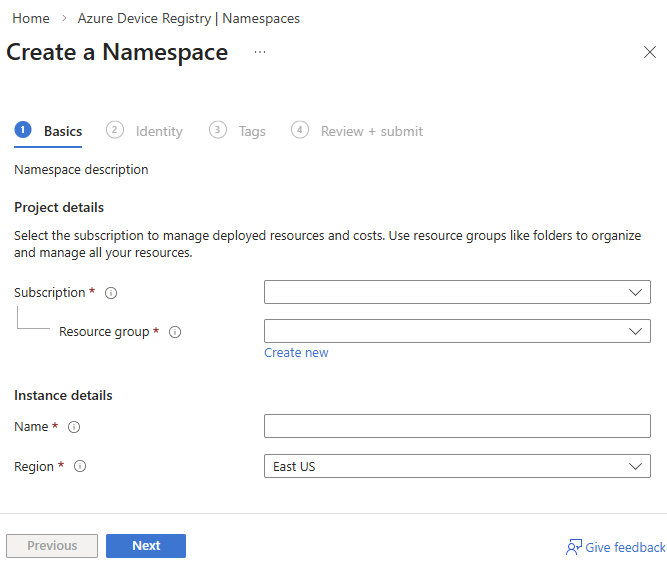
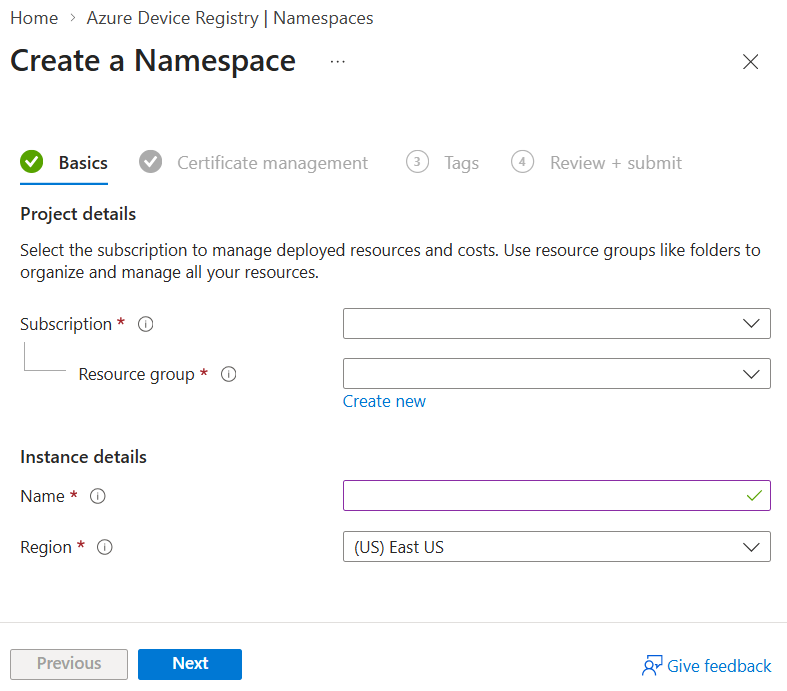
Check article

diff --git a/includes/iot-hub-device-registry-portal.md b/includes/iot-hub-device-registry-portal.md
@@ -6,7 +6,7 @@ ms.author: cwatson
 ms.service: azure-iot-hub
 ms.topic: include
 ai-usage: ai-assisted
-ms.date: 03/10/2026
+ms.date: 04/10/2026
 ---
 
 ## Additional prerequisites for Azure portal
@@ -18,11 +18,11 @@ Before you begin, make sure you have:
 
 ## Overview
 
-Use the Azure portal to create an IoT hub with Azure Device Registry and certificate management integration.
+Use the Azure portal to create an IoT hub with ADR and certificate management integration.
 
 The setup process in this article includes the following steps:
 
-1. Set up your ADR namespace with system-assigned managed identity and assign necessary roles.
+1. Set up your ADR namespace with certificate management enabled and assign necessary roles.
 1. Create a custom credential policy for your namespace.
 1. Create an IoT hub linked to your ADR namespace with a user-assigned managed identity.
 1. Create a DPS instance and link it to your ADR namespace.
@@ -31,20 +31,20 @@ The setup process in this article includes the following steps:
 1. Create an enrollment group and assign a policy to enable device onboarding.
 
 > [!IMPORTANT]
-> During the preview period, IoT Hub with ADR integration and certificate management features enabled on top of IoT Hub are available **free of charge**. Device Provisioning Service (DPS) is billed separately and isn't included in the preview offer. For details on DPS pricing, see [Azure IoT Hub pricing](https://azure.microsoft.com/pricing/details/iot-hub/).
+> During the preview period, IoT Hub with ADR integration and certificate management features enabled on top of IoT Hub are available **free of charge**. DPS is billed separately and isn't included in the preview offer. For details on DPS pricing, see [Azure IoT Hub pricing](https://azure.microsoft.com/pricing/details/iot-hub/).
 
 ## Set up your ADR namespace
 
-In this section, you set up your Azure Device Registry (ADR) namespace, enable managed identities, assign the necessary contributor role, and create a custom credential policy. These steps prepare your environment to securely manage device identities and certificates, and ensure your IoT hub can use ADR for device onboarding and certificate management.
+In this section, you set up your ADR namespace, enable certificate management, assign the necessary contributor role, and create a custom certificate policy. These steps prepare your environment to securely manage device identities and certificates, and ensure your IoT hub can use ADR for device onboarding and certificate management.
 
-### Create an ADR namespace with credential management enabled
+### Create an ADR namespace with certificate management enabled
 
-When you create a namespace with credential management enabled, the process creates a credential known as root CA and a default policy known as intermediate CA. [Certificate management](../articles/iot-hub/iot-hub-certificate-management-overview.md) uses these credentials and policies to onboard devices to the namespace.
+When you create a namespace with certificate management enabled, the process creates a credential known as root CA and a default policy known as intermediate CA. [Certificate management](../articles/iot-hub/iot-hub-certificate-management-overview.md) uses these credentials and policies to onboard devices to the namespace.
 
 1. Sign in to the [Azure portal](https://portal.azure.com).
 1. Search for and select **Azure Device Registry**.
 1. Select **Namespaces** > **Create**.
-1. On the Basics tab, fill in the fields as follows:
+1. On the **Basics** tab, fill in the fields as follows:
 
     | Property | Value |
     | ----- | ----- |
@@ -56,12 +56,11 @@ When you create a namespace with credential management enabled, the process crea
     :::image type="content" source="../articles/iot-hub/media/device-registry/iot-hub-namespace-1.png" alt-text="Screen capture that shows how to fill the basics tab for an ADR namespace in the Azure portal.":::
 
 1. Select **Next**.
-1. In the **Credential management** tab, enable **System-assigned managed identity** and **Credential management** for your namespace.
+1. In the **Certificate management** tab, select **Enabled**.
 
-    - System-assigned managed identities allow your namespace to authenticate to Azure services without storing credentials in your code.
-    - Credential management securely stores and manages device authentication credentials, such as API keys or certificates, for devices connecting to your namespace. When you enable this feature, you can set policies to control how certificates are issued and managed for your devices.
+    - Certificate management securely stores and manages device authentication credentials, such as API keys or certificates, for devices connecting to your namespace. When you enable this feature, you can set policies to control how certificates are issued and managed for your devices.
 
-    :::image type="content" source="../articles/iot-hub/media/device-registry/iot-hub-namespace-2.png" alt-text="Screenshot that shows how to enable a system-assigned managed identity and credential management for an ADR namespace in the Azure portal.":::
+    :::image type="content" source="../articles/iot-hub/media/device-registry/iot-hub-namespace-2.png" alt-text="Screenshot that shows how to enable certificate management for an ADR namespace in the Azure portal.":::
 
 1. Select **Next**.
 1. In the Tags tab, you can optionally **add tags** to organize your ADR namespace. Tags are key-value pairs that help you manage and identify your resources. Use tags to filter and group your resources in the Azure portal.
@@ -87,7 +86,8 @@ After you create your ADR namespace, grant the required permissions to your user
 
 First grant your user-managed identity the **Azure Device Registry Onboarding** role:
 
-1. In the same **Access control (IAM)** pane for your ADR namespace, select **+ Add** > **Add role assignment** again.
+1. In the ADR namespace you created, select **Access control (IAM)** in the sidebar menu.
+1. Select **+ Add** > **Add role assignment**.
 1. In the **Role** field, search for and select **Azure Device Registry Onboarding**. This role allows your managed identity to onboard devices using ADR credential policies.
 1. Select **Next**.
 1. In **Assign access to**, choose **Managed identity**.
@@ -96,9 +96,7 @@ First grant your user-managed identity the **Azure Device Registry Onboarding** 
 
 Repeat these steps to assign the **Azure Device Registry Contributor** role:
 
-1. In the [Azure portal](https://portal.azure.com), go to **Home** > **Azure Device Registry** > select your ADR namespace.
-1. In the left pane, select **Access control (IAM)**.
-1. Select **+ Add** > **Add role assignment**.
+1. In the same **Access control (IAM)** pane for your ADR namespace, select **+ Add** > **Add role assignment** again.
 1. In the **Role** field, search for and select **Azure Device Registry Contributor**. This role gives your managed identity the permissions ADR needs for setup and operation.
 1. Select **Next**.
 1. In **Assign access to**, choose **Managed identity**.
@@ -109,14 +107,13 @@ Repeat these steps to assign the **Azure Device Registry Contributor** role:
 
 Create custom policies within your ADR namespace to define how certificates are issued and managed for your devices. Policies allow you to set parameters such as certificate validity periods and subjects. Editing or disabling a policy isn't supported in preview.
 
-1. In the [Azure portal](https://portal.azure.com), search for and select **Azure Device Registry**.
-1. Go to the **Namespaces** page.
-1. Select your ADR namespace.
-1. In the namespace page, under **Namespace resources**, select **Credential policies (Preview)**.
+1. In the ADR namespace you created, under **Namespace resources**, select **Certificate management (Preview)**.
+
+    In the **Enable certificate management** dialog, select **Enable**.
 
     :::image type="content" source="../articles/iot-hub/media/device-registry/custom-policy.png" alt-text="Screenshot of Azure Device Registry custom policy page in the Azure portal." lightbox="../articles/iot-hub/media/device-registry/custom-policy.png":::
 
-1. In the **Credential policies** page, select **+ Create** to create a new policy.
+1. In the **Certificate management** page, select **+ Create** to create a new policy.
 1. A pane appears where you can configure the policy settings. In the **Basics** tab, complete the fields as follows:
     
     | Property | Value |    
@@ -127,7 +124,7 @@ Create custom policies within your ADR namespace to define how certificates are 
 
 1. Select **Next** > **Create**.
 1. After it's created, select **Go to resource** and select the namespace.
-1. To review the policy, select **Credential policies** to see the policy name and validity period.
+1. To review the policy, select **Certificate management** to see the policy name and validity period.
 
 ## Create an IoT hub in Azure portal
 
@@ -150,7 +147,7 @@ In this section, you create a new IoT hub instance with the ADR namespace and yo
    | **Device registry namespace** | Select the ADR namespace you created in the previous section.|
    | **User-managed identity** | Select the user-assigned managed identity you associated to the ADR namespace and link it to your IoT hub.  |
  
-   :::image type="content" source="../articles/iot-hub/media/device-registry/iot-hub-gen-2-basics.png" alt-text="Screen capture that shows how to create an IoT hub in the Azure portal.":::
+   :::image type="content" source="../articles/iot-hub/media/device-registry/iot-hub-gen-2-basics.png" alt-text="Screenshot that shows how to create an IoT hub in the Azure portal.":::
 
    > [!NOTE]
    > Prices shown are for example purposes only.
@@ -167,7 +164,7 @@ After you complete the **Basics** tab, configure your IoT hub by following these
    | **Connectivity configuration** | Choose the endpoints that devices can use to connect to your IoT hub. Accept the default setting, **Public access**, for this example. You can change this setting after the IoT hub is created. For more information, see [IoT Hub endpoints](/azure/iot-hub/iot-hub-devguide-endpoints). |
    | **Minimum TLS Version** | Select the minimum [TLS version](/azure/iot-hub/iot-hub-tls-support#tls-12-enforcement-available-in-select-regions) supported by your IoT hub. Once the IoT hub is created, you can't change this value. Accept the default setting, **1.2**, for this example. |
 
-   :::image type="content" source="./media/iot-hub-include-create-hub/iot-hub-create-network-screen.png" alt-text="Screen capture that shows how to choose the endpoints that can connect to a new IoT hub.":::
+   :::image type="content" source="./media/iot-hub-include-create-hub/iot-hub-create-network-screen.png" alt-text="Screenshot that shows how to choose the endpoints that can connect to a new IoT hub.":::
 
 1. Select **Next: Management** to continue creating your hub.
 1. On the **Management** tab, accept the default settings. If desired, you can modify any of the following fields:
@@ -178,7 +175,7 @@ After you complete the **Basics** tab, configure your IoT hub by following these
    | **Assign me** | You might need access to IoT Hub data APIs to manage elements within an instance. If you have access to role assignments, select **IoT Hub Data Contributor role** to grant yourself full access to the data APIs.<br><br>To assign Azure roles, you must have `Microsoft.Authorization/roleAssignments/write` permissions, such as [User Access Administrator](/azure/role-based-access-control/built-in-roles#user-access-administrator) or [Owner](/azure/role-based-access-control/built-in-roles#owner). |
    | **Device-to-cloud partitions** | This property relates the device-to-cloud messages to the number of simultaneous readers of the messages. Most IoT hubs need only four partitions. |
 
-   :::image type="content" source="./media/iot-hub-include-create-hub/iot-hub-management.png" alt-text="Screen capture that shows how to set the role-based access control and scale for a new IoT hub.":::
+   :::image type="content" source="./media/iot-hub-include-create-hub/iot-hub-management.png" alt-text="Screenshot that shows how to set the role-based access control and scale for a new IoT hub.":::
 
 1. Select **Next: Add-ons** to continue to the next screen.
 1. On the **Add-ons** tab, accept the default settings. If desired, you can modify any of the following fields:
@@ -188,7 +185,7 @@ After you complete the **Basics** tab, configure your IoT hub by following these
    | **Enable Device Update for IoT Hub** | Turn on Device Update for IoT Hub to enable over-the-air updates for your devices. If you select this option, you're prompted to provide information to provision a Device Update for IoT Hub account and instance. For more information, see [What is Device Update for IoT Hub?](/azure/iot-hub-device-update/understand-device-update) |
    | **Enable Defender for IoT** | Turn Defender for IoT on to add an extra layer of protection to IoT and your devices. This option isn't available for hubs in the free tier. For more information, see [Security recommendations for IoT Hub](/azure/defender-for-iot/device-builders/concept-recommendations) in [Microsoft Defender for IoT](/azure/defender-for-iot/device-builders) documentation. |
 
-   :::image type="content" source="./media/iot-hub-include-create-hub/iot-hub-create-add-ons.png" alt-text="Screen capture that shows how to set the optional add-ons for a new IoT hub.":::
+   :::image type="content" source="./media/iot-hub-include-create-hub/iot-hub-create-add-ons.png" alt-text="Screenshot that shows how to set the optional add-ons for a new IoT hub.":::
 
    > [!NOTE]
    > Prices shown are for example purposes only.
@@ -197,7 +194,7 @@ After you complete the **Basics** tab, configure your IoT hub by following these
 
     Tags are name/value pairs. You can assign the same tag to multiple resources and resource groups to categorize resources and consolidate billing. In this article, you don't add any tags. For more information, see [Use tags to organize your Azure resources and management hierarchy](/azure/azure-resource-manager/management/tag-resources).
 
-    :::image type="content" source="./media/iot-hub-include-create-hub/iot-hub-create-tags.png" alt-text="Screen capture that shows how to assign tags for a new IoT hub.":::
+    :::image type="content" source="./media/iot-hub-include-create-hub/iot-hub-create-tags.png" alt-text="Screenshot that shows how to assign tags for a new IoT hub.":::
 
 1. Select **Next: Review + create** to review your choices.
 1. Select **Create** to start the deployment of your new hub. Your deployment might progress for a few minutes while the hub is being created. Once the deployment is complete, select **Go to resource** to open the new hub.

diff --git a/articles/iot-hub/iot-hub-device-registry-setup.md b/articles/iot-hub/iot-hub-device-registry-setup.md
@@ -1,13 +1,13 @@
 ---
-title: Deploy IoT Hub with ADR integration and certificate management (Preview)
+title: Deploy IoT Hub with ADR Integration and Certificate Management (Preview)
 titleSuffix: Azure IoT Hub
-description: This article explains how to create an IoT Hub with ADR integration and Microsoft-backed X.509 certificate management.
+description: Learn how to create an IoT Hub with ADR integration and Microsoft-backed X.509 certificate management.
 author: cwatson-cat
 ms.author: cwatson
 ms.service: azure-iot-hub
 services: iot-hub
 ms.topic: how-to
-ms.date: 01/27/2026
+ms.date: 04/10/2026
 zone_pivot_groups: iot-hub-deployment-methods
 #Customer intent: As a developer new to IoT, I want to understand what Azure Device Registry is and how it can help me manage my IoT devices.
 ---
@@ -22,7 +22,7 @@ This article explains how to deploy IoT Hub with [Azure Device Registry (ADR)](i
 
 - An active Azure subscription. If you don't have an Azure subscription, create a [free account](https://azure.microsoft.com/free/).
 - Ensure that you have the privilege to perform role assignments within your target scope. Performing role assignments in Azure requires a [privileged role](../role-based-access-control/built-in-roles.md#privileged), such as Owner or User Access Administrator at the appropriate scope.
-- Select a [supported region](iot-hub-what-is-new.md#supported-regions) to deploy instances of  IoT Hub, Azure Device Registry, and Device Provisioning Service.
+- Select a [supported region](iot-hub-what-is-new.md#supported-regions) to deploy instances of IoT Hub, Azure Device Registry, and Device Provisioning Service.
 
 ## Choose a deployment method
 
@@ -32,9 +32,9 @@ To set up your IoT Hub with ADR integration and certificate management, you can 
 
 | Deployment method | Description |
 |-------------------|-------------|
-| Select **Azure portal** at the top of the page | Use the Azure portal to create a new IoT Hub, DPS instance, and ADR namespace and configure all necessary settings. |
-| Select **Azure CLI** at the top of the page | Use the Azure CLI to create a new IoT Hub, DPS instance, and ADR namespace and configure all necessary settings. |
-| Select **PowerShell script** at the top of the page | Use a PowerShell script (Windows only) to automate the creation of a new IoT Hub, DPS instance, and ADR namespace and configure all necessary settings. |
+| Select **Azure portal** at the top of the page | Use the Azure portal to create a new IoT Hub, DPS instance, and ADR namespace and to configure all necessary settings. |
+| Select **Azure CLI** at the top of the page | Use the Azure CLI to create a new IoT Hub, DPS instance, and ADR namespace and to configure all necessary settings. |
+| Select **PowerShell script** at the top of the page | Use a PowerShell script (Windows only) to automate the creation of a new IoT Hub, DPS instance, and ADR namespace and to configure all necessary settings. |
 
 :::zone pivot="portal"
 
@@ -54,14 +54,14 @@ To set up your IoT Hub with ADR integration and certificate management, you can 
 
 :::zone-end
 
-## Next steps
+## Next step
 
 At this point, your IoT Hub with ADR integration and certificate management is set up and ready to use. You can now start onboarding your IoT devices to the hub using the Device Provisioning Service (DPS) instance and manage your IoT devices securely using the policies and enrollments you have set up.
 
-**New**: Certificate management is supported across select [DPS Device SDKs](../iot-dps/libraries-sdks.md#device-sdks). You can now onboard devices using Microsoft-backed X.509 certificate management with the following SDK samples:
+**New**: Certificate management is supported across select [DPS device SDKs](../iot-dps/libraries-sdks.md#device-sdks). You can now onboard devices using Microsoft-backed X.509 certificate management with the following SDK samples:
 
-- [DPS Device SDKs](../iot-dps/libraries-sdks.md#certificate-management-device-sdks-preview)
-- [Embedded Device SDKs](../iot-dps/libraries-sdks.md#certificate-management-embedded-device-sdks-preview)
+- [Certificate management device SDKs (preview)](../iot-dps/libraries-sdks.md#certificate-management-device-sdks-preview)
+- [Embedded device SDKs](../iot-dps/libraries-sdks.md#certificate-management-embedded-device-sdks-preview)
 
 
 

diff --git a/includes/iot-hub-device-registry-azure-cli.md b/includes/iot-hub-device-registry-azure-cli.md
@@ -13,7 +13,7 @@ ms.date: 01/27/2026
 Before you begin, make sure you have:
 
 - Azure CLI installed. Follow the steps to [install the Azure CLI](/cli/azure/install-azure-cli). 
-- Installed the **Azure IoT CLI extension with previews enabled** to access the ADR integration and certificate management functionalities for IoT Hub:
+- Install the **Azure IoT CLI extension with previews enabled** to access the ADR integration and certificate management functionalities for IoT Hub:
 
     1. Check for existing Azure CLI extension installations.
     
@@ -150,13 +150,13 @@ The `--enable-credential-policy` command creates credential (root CA) and defaul
 
 In this section, you assign the [Azure Device Registry Contributor](../articles/role-based-access-control/built-in-roles/internet-of-things.md#azure-device-registry-contributor) role to the managed identity and scope it to the namespace. This custom role allows for full access to IoT devices within the ADR namespace.
 
-1. Retrieve the principal ID of the User-Assigned Managed Identity. This ID is needed to assign roles to the identity.
+1. Retrieve the principal ID of the user-assigned managed identity. This ID is needed to assign roles to the identity.
 
     ```azurecli-interactive
     UAMI_PRINCIPAL_ID=$(az identity show --name <USER_IDENTITY> --resource-group <RESOURCE_GROUP> --query principalId -o tsv)
     ```
 
-1. Retrieve the Resource ID of the ADR Namespace. This ID is used as the scope for the role assignment.
+1. Retrieve the resource ID of the ADR Namespace. This ID is used as the scope for the role assignment.
 
     ```azurecli-interactive
     NAMESPACE_RESOURCE_ID=$(az iot adr ns show --name <NAMESPACE_NAME> --resource-group <RESOURCE_GROUP> --query id -o tsv)
@@ -197,19 +197,19 @@ In this section, you assign the [Azure Device Registry Contributor](../articles/
     HUB_RESOURCE_ID=$(az iot hub show --name <HUB_NAME> --resource-group <RESOURCE_GROUP> --query id -o tsv)
     ```
 
-1. Assign the "Contributor" role to the ADR identity. This grants the ADR namespace's managed identity Contributor access to the IoT Hub. This role allows broad access, including managing resources, but not assigning roles.
+1. Assign the Contributor role to the ADR identity. This grants the ADR namespace's managed identity Contributor access to the IoT Hub. This role allows broad access, including managing resources, but not assigning roles.
 
     ```azurecli-interactive
     az role assignment create --assignee $ADR_PRINCIPAL_ID --role "Contributor" --scope $HUB_RESOURCE_ID
     ```
 
-1. Assign the "IoT Hub Registry Contributor" role to the ADR identity. This grants more specific permissions to manage device identities in the IoT Hub. This is essential for ADR to register and manage devices in the hub.
+1. Assign the IoT Hub Registry Contributor role to the ADR identity. This grants more specific permissions to manage device identities in the IoT Hub. This is essential for ADR to register and manage devices in the hub.
 
     ```azurecli-interactive
     az role assignment create --assignee $ADR_PRINCIPAL_ID --role "IoT Hub Registry Contributor" --scope $HUB_RESOURCE_ID
     ```
 
-## Create a Device Provisioning Service instance with ADR integration
+## Create a DPS instance with ADR integration
 
 1. Create a new DPS instance linked to your ADR namespace created in the previous sections. Your DPS instance must be located in the same region as your ADR namespace.
 
@@ -223,7 +223,7 @@ In this section, you assign the [Azure Device Registry Contributor](../articles/
     az iot dps show --name <DPS_NAME> --resource-group <RESOURCE_GROUP> --query identity --output json
     ```
 
-## Link your IoT Hub to the Device Provisioning Service instance
+## Link your IoT Hub to the DPS instance
 
 1. Link the IoT Hub to your DPS.
 
